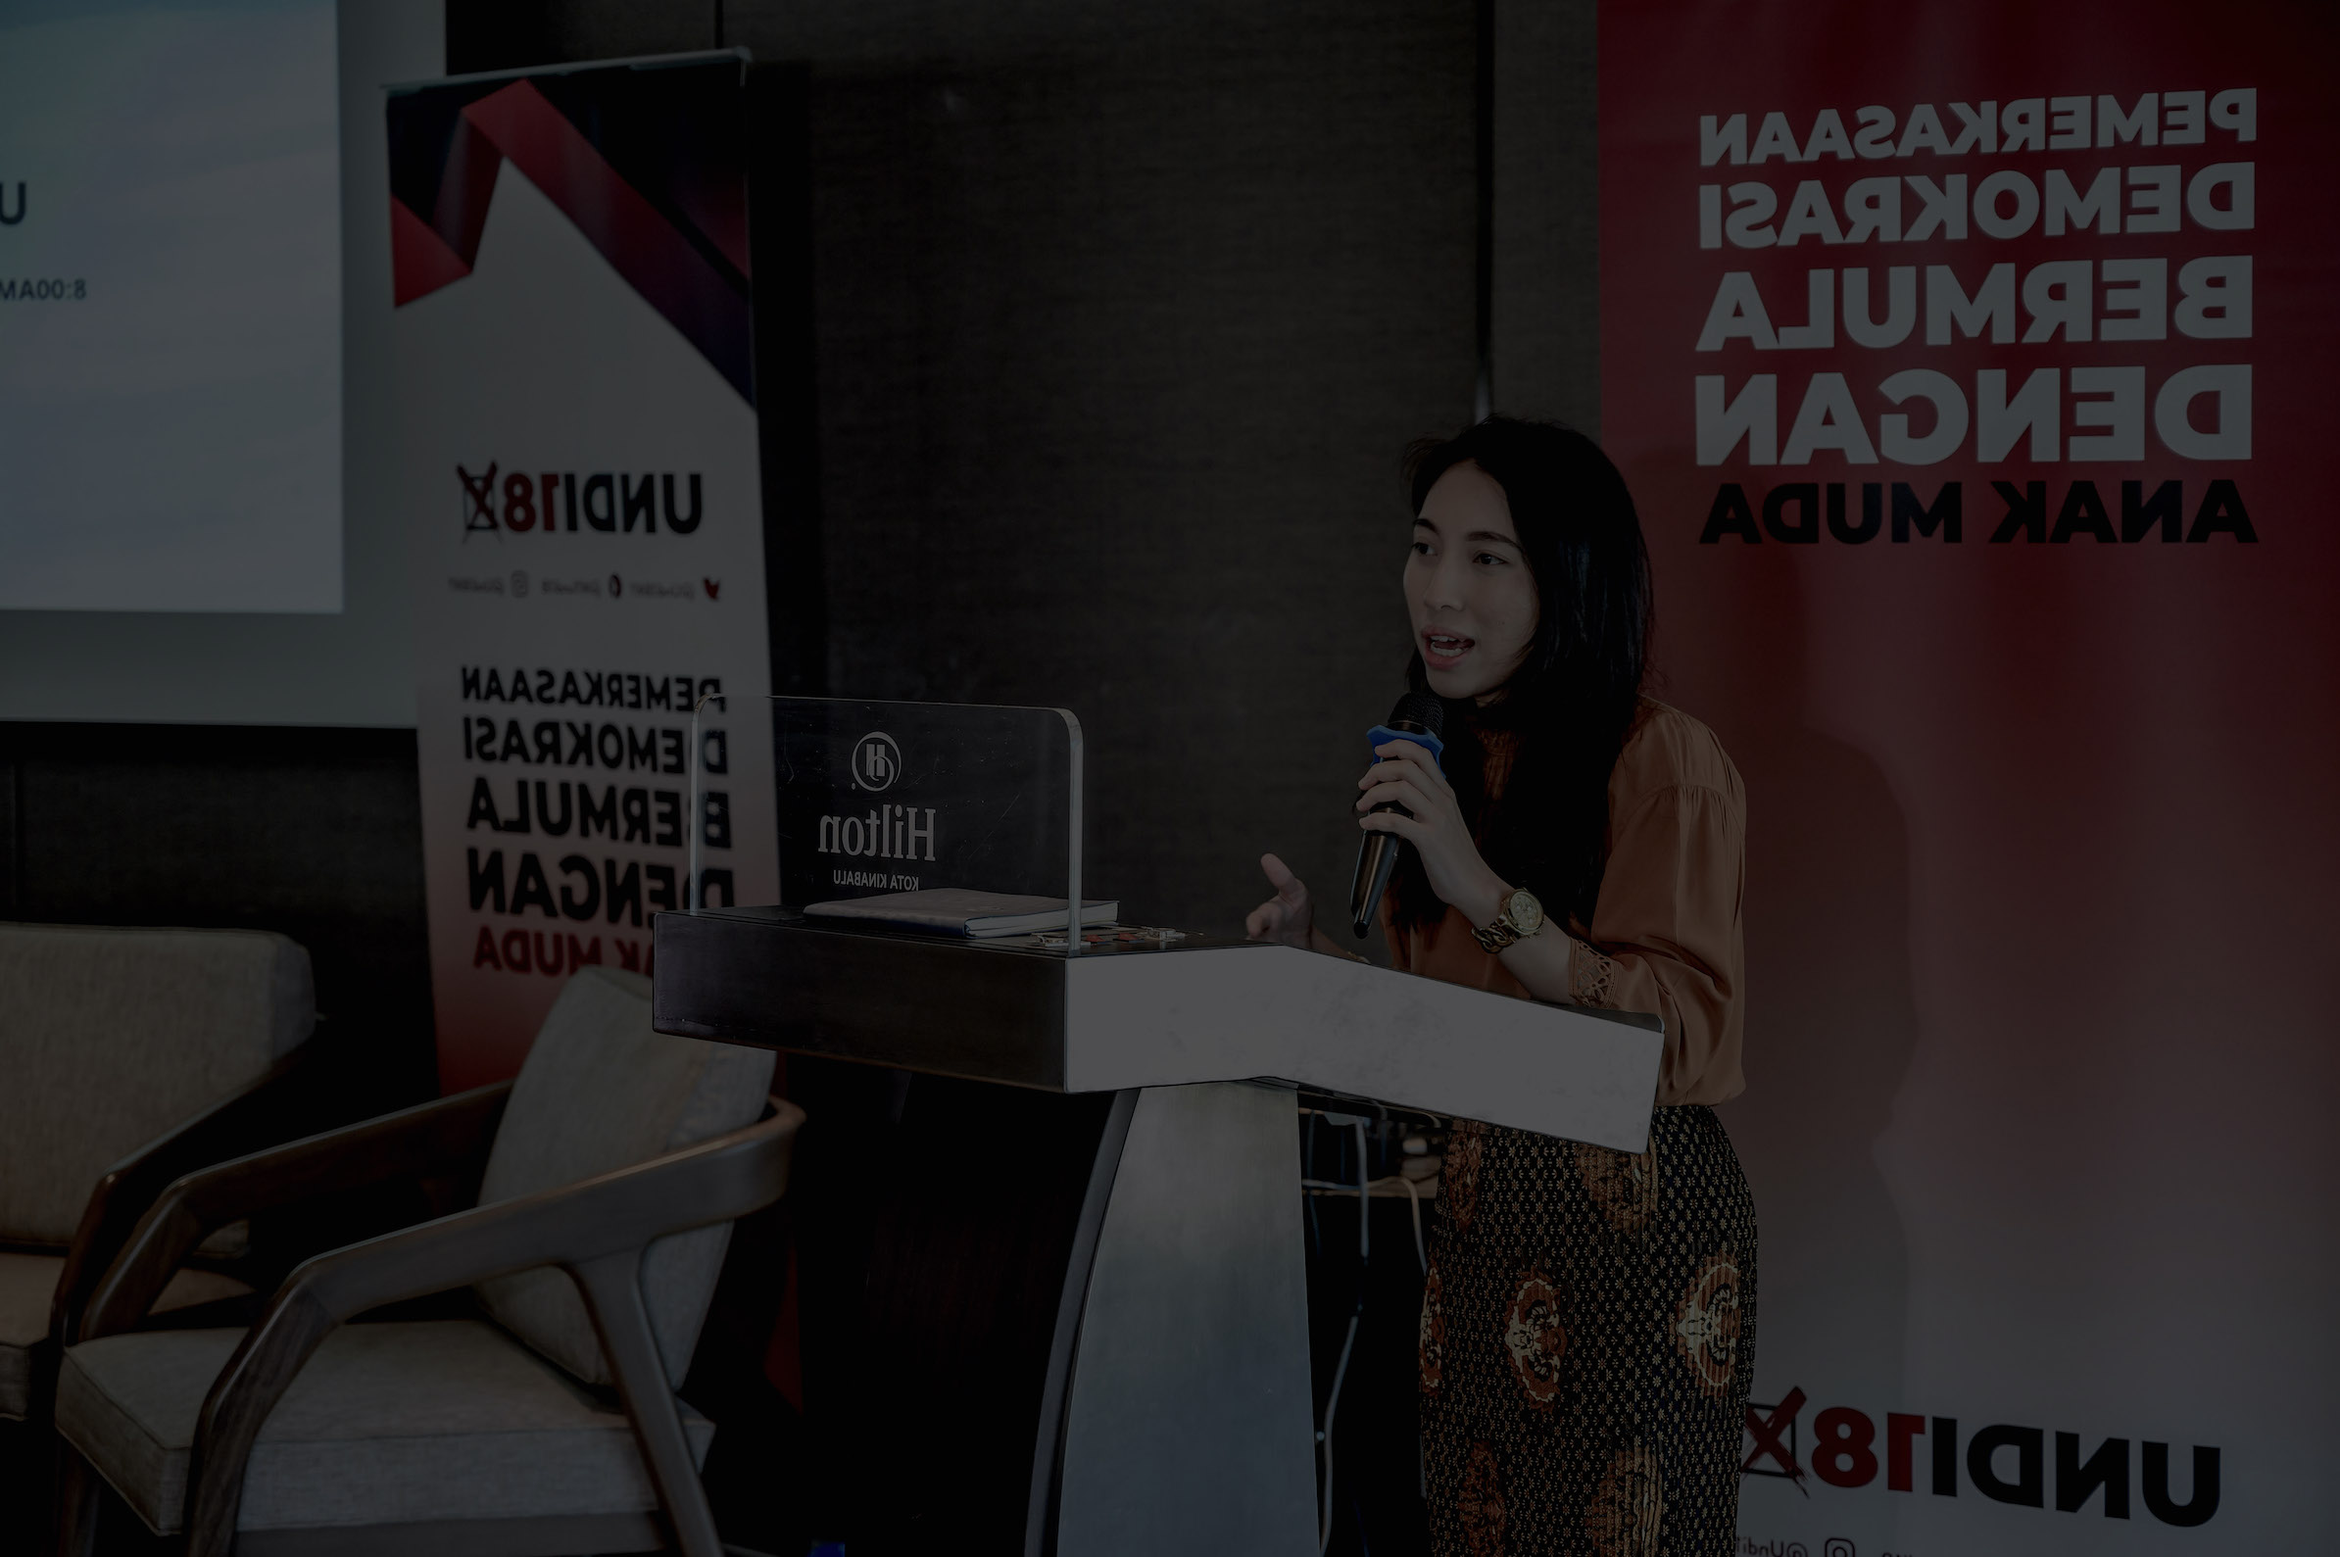
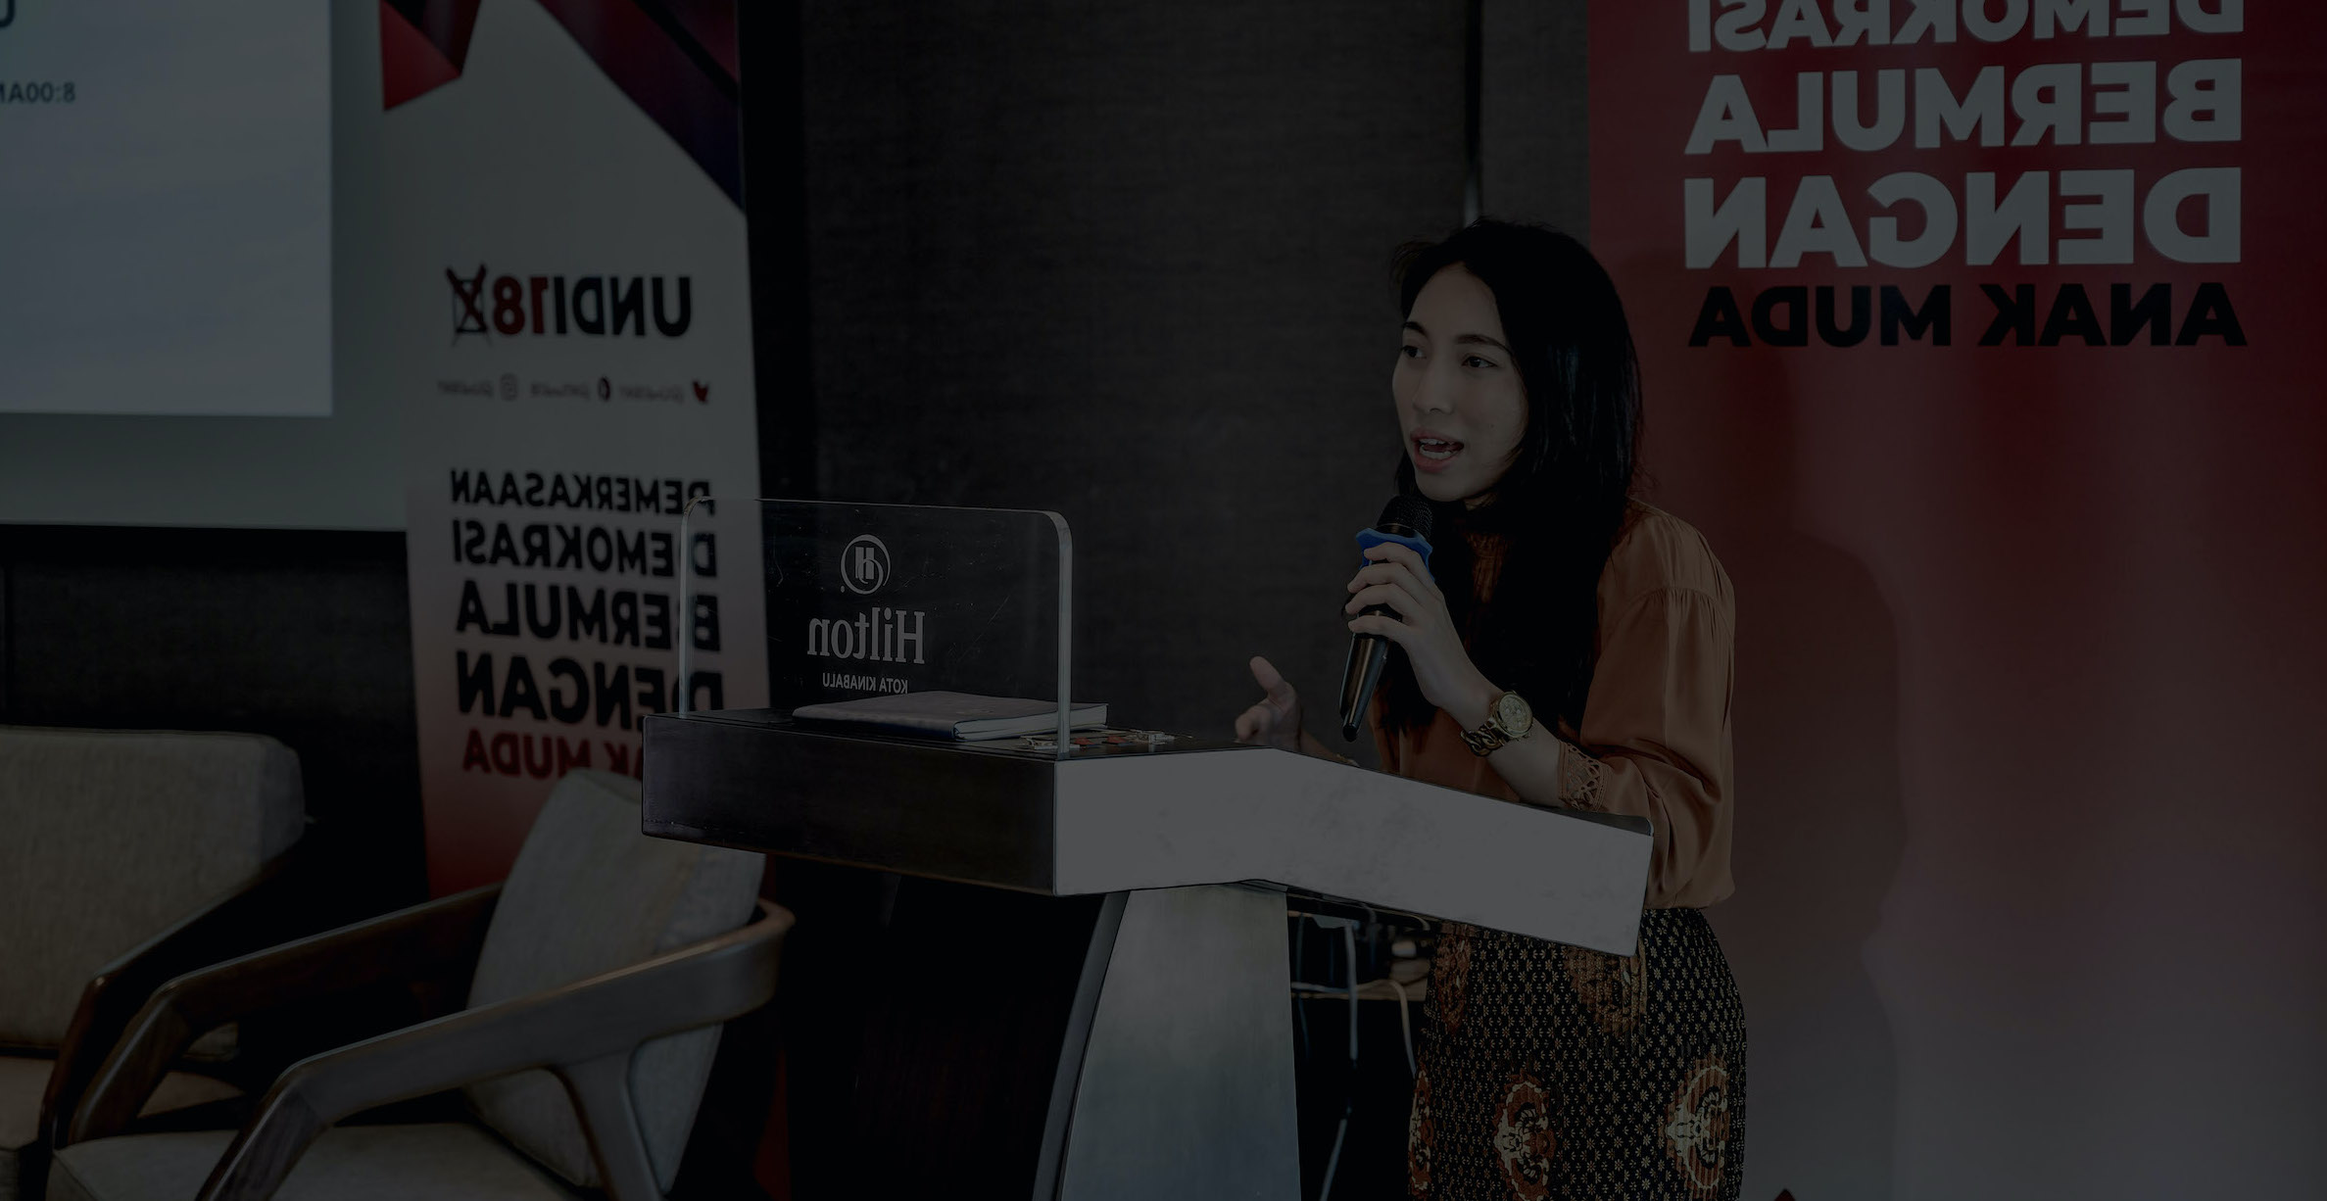
Updated hero

diff --git a/src/components/hero.js b/src/components/hero.js
@@ -1,7 +1,7 @@
 import React from 'react';
-import hero from '../images/myapec.jpg';
+// import hero from '../images/myapec.jpg';
+import hero from '../images/hero-pd.jpg';
 import { AnchorLink } from 'gatsby-plugin-anchor-links';
-// import { Image, Link } from "gatsby";
 
 const Hero = () => {
   return (
@@ -11,7 +11,7 @@ const Hero = () => {
       data-sal-duration='700'
       data-sal-delay='100'
       data-sal-easing='ease'
-      style={{ backgroundImage: `url(${hero})` }}
+      style={{ backgroundImage: `url(${hero})` , backgroundSize: "cover"}}
       >
       {/* <div className="absolute right-0 w-full" style={{ "zIndex": -100 }}>
         <img src={hero} className="object-cover w-screen " alt="overflow-logo" />
@@ -19,7 +19,9 @@ const Hero = () => {
       <div className='md:mt-8 lg:pr-8 mx-auto container px-4 py-4 lg:px-0'>
         <div className='w-full lg:w-2/3 flex flex-col xl:mt-12'>
           {/* Hero Title */}
-          <h1 className='text-white font-black text-4xl lg:text-6xl'>
+          <h1 className='text-white font-black text-4xl lg:text-6xl'
+          style={{textShadow: "0 0 1px gray, 0 0 1px gray, 0 0 1px gray, 0 0 1px gray"}}
+          >
             Impacted 8 Million Youths and counting
           </h1>
           {/* Hero Subtitle */}
@@ -57,7 +59,7 @@ const Hero = () => {
             </div>
             <div className='w-full mt-8 lg:mt-16'>
               <span className='text-lg text-white'>Want to read more?</span>
-              <a href="https://undi18.wordpress.com/" className='text-lg text-red-700 hover:text-red-900 inline ml-2'>Check out our blog</a>
+              <a href="https://undi18.wordpress.com/" className='text-lg font-bold text-white hover:text-red-900 inline ml-2'>Check out our blog</a>
 
             </div>
           </div>

diff --git a/src/pages/index.js b/src/pages/index.js
@@ -39,8 +39,8 @@ export default function IndexPage({ data }) {
       <section id="programmes" className="pt-6 lg:pt-12 container mx-auto px-4 py-0 lg:px-0">
         <Programmes limit={3}/>
         <div className='w-full flex justify-center my-4'>
-          <Link to="/programmes">
-            <button className='mx-auto w-2/3 lg:w-1/3 bg-red-800 hover:bg-red-900 text-white rounded-lg py-2 px-4'>See More of Our Programmes</button>
+          <Link className='w-2/3 lg:w-1/3' to="/programmes">
+            <button className='mx-auto w-full bg-red-800 hover:bg-red-900 text-white rounded-lg py-2 px-4'>See More of Our Programmes</button>
           </Link>
         </div>
         

diff --git a/src/components/main-pitch.js b/src/components/main-pitch.js
@@ -37,7 +37,9 @@ const MainPitch = () => {
       >
         <div className="container mx-auto px-4 py-0 lg:px-0">
           <div className='w-full md:w-1/2'>
-            <h3 className="text-3xl lg:text-5xl font-semibold tracking-wider py-2 text-gray-200">
+            <h3 className="text-3xl lg:text-5xl font-semibold tracking-wider py-2 text-gray-200"
+            style={{textShadow: "0 0 1px gray, 0 0 1px gray, 0 0 1px gray, 0 0 1px gray"}}
+            >
               Build the movement of champions for democracy. Starting from youths.
             </h3>
             <p className="text-md lg:text-xl mt-2 mb-6 leading-relaxed text-white">
